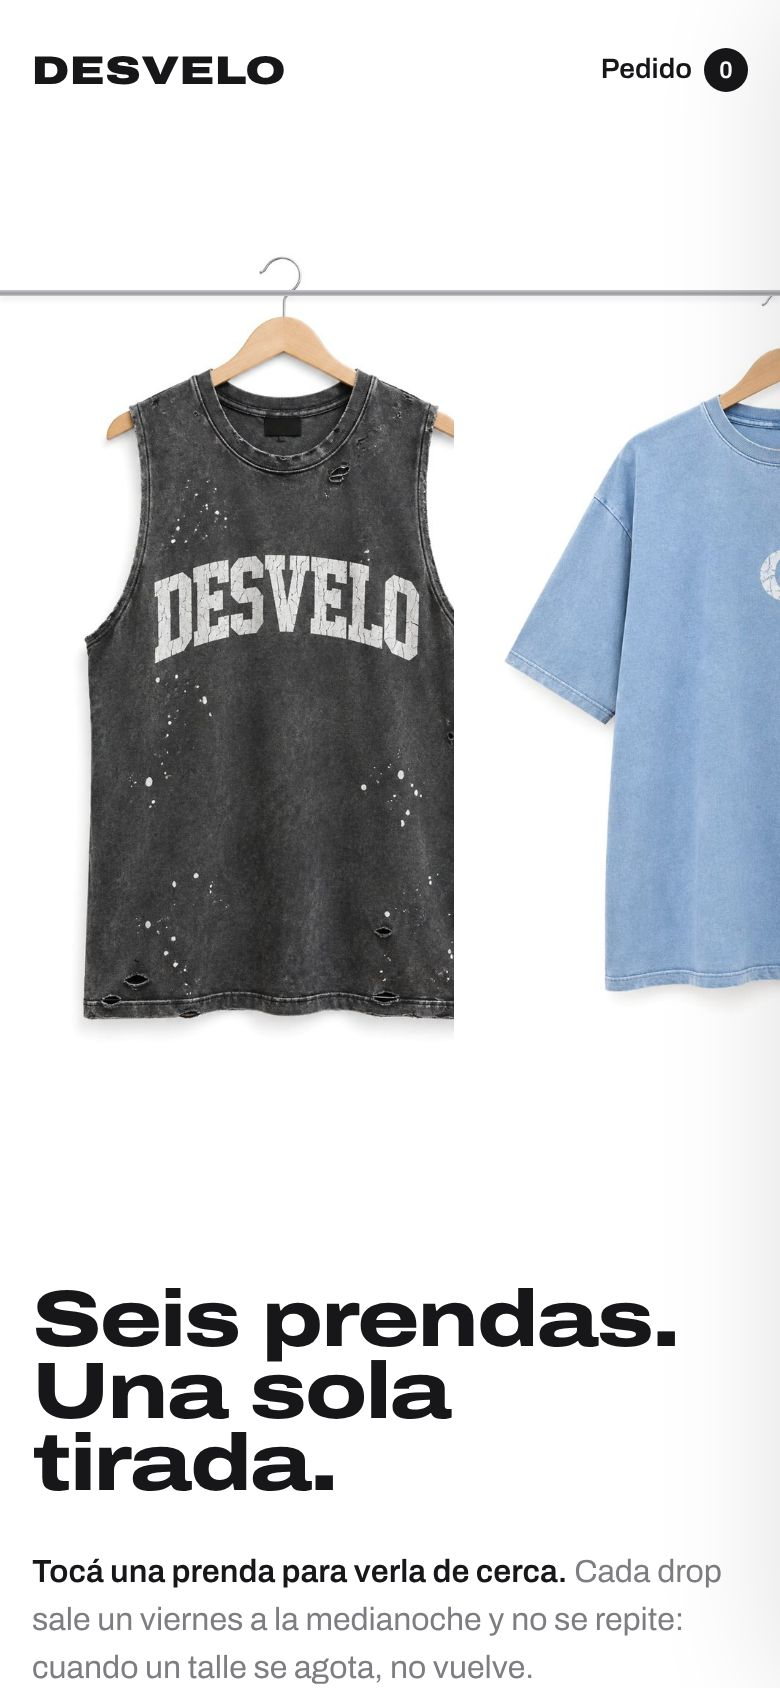
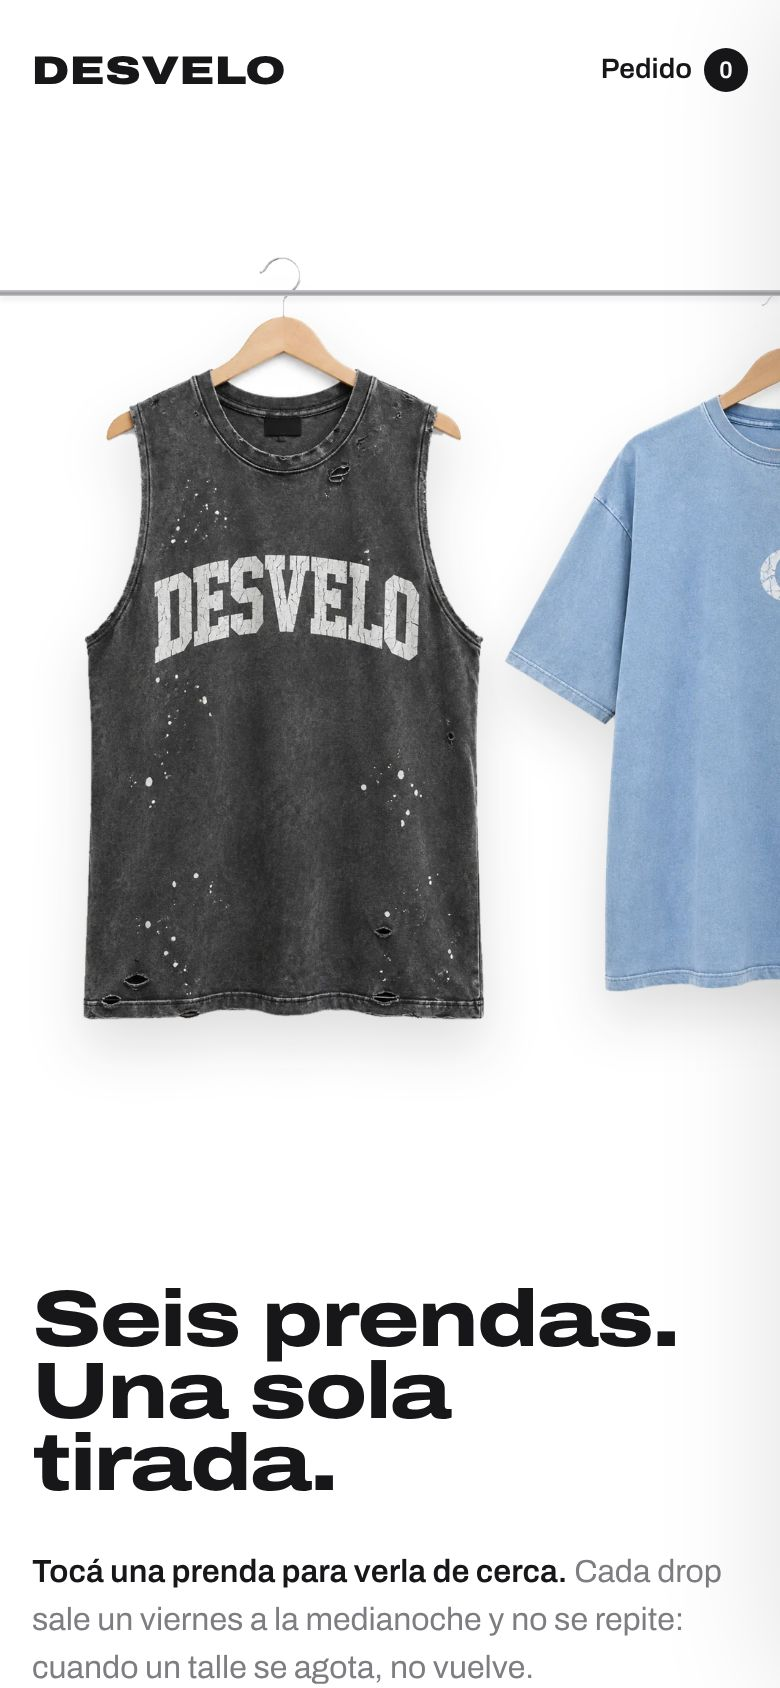
Desvelo: prendas recortadas sin fondo (WebP con transparencia) y sombra suave
Claude-Session: https://claude.ai/code/session_01KneUmhKphiFygSSmiPurJG

Changed region(s): [[0.5846, 0.3697, 0.6462, 0.6161], [0.5538, 0.2464, 0.5846, 0.2773], [0.1538, 0.2464, 0.1846, 0.2773]]

diff --git a/desvelo/index.html b/desvelo/index.html
@@ -47,7 +47,7 @@ a{color:inherit}
 .riel__prendas::-webkit-scrollbar{display:none}
 .prenda{position:relative;flex:none;height:var(--alto);aspect-ratio:3/4;margin:0 calc(var(--alto) * -.09);transform-origin:50% 7.4%;z-index:3}
 .prenda:hover,.prenda:focus-visible{z-index:5!important}
-.prenda img{width:100%;height:100%;object-fit:contain;mix-blend-mode:multiply;pointer-events:none}
+.prenda img{width:100%;height:100%;object-fit:contain;pointer-events:none;filter:drop-shadow(0 14px 14px rgba(23,23,26,.14))}
 .prenda__gancho{position:absolute;left:50%;top:0;width:34%;translate:-50% 0;height:auto;z-index:1}
 .prenda__nombre{position:absolute;left:50%;bottom:-30px;translate:-50% 0;white-space:nowrap;font-size:13px;color:var(--gris);opacity:0;transition:opacity .25s}
 .prenda:hover .prenda__nombre,.prenda:focus-visible .prenda__nombre{opacity:1}
@@ -63,7 +63,7 @@ a{color:inherit}
 .detalle{position:fixed;inset:0;z-index:30;display:none;grid-template-columns:minmax(0,1fr) minmax(0,1.1fr) minmax(0,1fr);align-items:center;gap:24px;padding:72px var(--margen) 32px}
 .detalle.abierto{display:grid}
 .detalle__foto{position:relative;height:min(74vh,720px);aspect-ratio:3/4;justify-self:center}
-.detalle__foto img{position:absolute;inset:0;width:100%;height:100%;object-fit:contain;mix-blend-mode:multiply}
+.detalle__foto img{position:absolute;inset:0;width:100%;height:100%;object-fit:contain;filter:drop-shadow(0 24px 24px rgba(23,23,26,.16))}
 .etiquetas{position:absolute;right:-14%;top:9%;display:flex;gap:8px;transform-origin:50% 0}
 .etiqueta{width:58px;padding:18px 6px 10px;background:var(--tinta);color:var(--blanco);font-size:10px;line-height:1.2;text-align:center;border-radius:3px;position:relative;transform-origin:50% -20px}
 .etiqueta::before{content:"";position:absolute;left:50%;top:6px;width:7px;height:7px;margin-left:-3.5px;border-radius:50%;background:var(--blanco)}
@@ -127,7 +127,7 @@ td:first-child{font-weight:700;font-variation-settings:"wdth" 118}
 .pedido__cabeza h2{font-weight:800;font-size:24px;font-variation-settings:"wdth" 118}
 .pedido ul{list-style:none;flex:1;overflow:auto;display:flex;flex-direction:column;gap:12px}
 .pedido li{display:grid;grid-template-columns:64px 1fr auto;gap:12px;align-items:center;font-size:14px}
-.pedido li img{width:64px;aspect-ratio:3/4;object-fit:contain;mix-blend-mode:multiply;background:#fafafa}
+.pedido li img{width:64px;aspect-ratio:3/4;object-fit:contain;background:#f3f3f4}
 .pedido li small{display:block;color:var(--gris)}
 .pedido li button{font-size:13px;color:var(--gris);text-decoration:underline}
 .pedido__total{display:flex;justify-content:space-between;font-weight:700;font-size:17px;border-top:1px solid var(--linea);padding-top:14px;font-variant-numeric:tabular-nums}
@@ -256,18 +256,18 @@ const WHATSAPP = '5490000000000';
 const PRENDAS = [
   {id:'desvelo', nombre:'Musculosa Desvelo', precio:38000,
    desc:'Algodón pesado de 240 g, lavado a la piedra y pintado a mano. Cada una tiene las manchas en otro lugar.',
-   colores:[{nombre:'Grafito', hex:'#4a4a4c', img:'img/desvelo-gris.jpg'},{nombre:'Hueso', hex:'#ddd3c0', img:'img/desvelo-hueso.jpg'},{nombre:'Negro lavado', hex:'#1d1d1f', img:'img/desvelo-negro.jpg'}],
-   espalda:{Grafito:'img/desvelo-espalda.jpg'}},
+   colores:[{nombre:'Grafito', hex:'#4a4a4c', img:'img/desvelo-gris.webp'},{nombre:'Hueso', hex:'#ddd3c0', img:'img/desvelo-hueso.webp'},{nombre:'Negro lavado', hex:'#1d1d1f', img:'img/desvelo-negro.webp'}],
+   espalda:{Grafito:'img/desvelo-espalda.webp'}},
   {id:'luna', nombre:'Remera Luna', precio:32000, desc:'Corte cuadrado y amplio, celeste lavado. La luna va bordada, no estampada.',
-   colores:[{nombre:'Celeste lavado', hex:'#8fb3d9', img:'img/luna.jpg'}]},
+   colores:[{nombre:'Celeste lavado', hex:'#8fb3d9', img:'img/luna.webp'}]},
   {id:'varsity', nombre:'Campera Varsity', precio:96000, desc:'Cuerpo de paño de lana, mangas de cuero ecológico cobalto y luna de felpa aplicada.',
-   colores:[{nombre:'Crudo y cobalto', hex:'#2340ff', img:'img/varsity.jpg'}]},
+   colores:[{nombre:'Crudo y cobalto', hex:'#2340ff', img:'img/varsity.webp'}]},
   {id:'camiseta', nombre:'Camiseta 9', precio:41000, desc:'Camiseta de fútbol de los noventa, en naranja quemado con zigzag negro en los hombros.',
-   colores:[{nombre:'Naranja quemado', hex:'#e2621b', img:'img/camiseta.jpg'}]},
+   colores:[{nombre:'Naranja quemado', hex:'#e2621b', img:'img/camiseta.webp'}]},
   {id:'buzo', nombre:'Buzo Oliva', precio:58000, desc:'Frisa pesada lavada al sol, ruedo cortado a mano y bolsillo canguro.',
-   colores:[{nombre:'Oliva', hex:'#6b7350', img:'img/buzo.jpg'}]},
+   colores:[{nombre:'Oliva', hex:'#6b7350', img:'img/buzo.webp'}]},
   {id:'bowling', nombre:'Camisa Bowling', precio:45000, desc:'Rayón liviano, cuello abierto y dos paneles negros al frente.',
-   colores:[{nombre:'Crudo y negro', hex:'#efe9db', img:'img/bowling.jpg'}]},
+   colores:[{nombre:'Crudo y negro', hex:'#efe9db', img:'img/bowling.webp'}]},
 ];
 const TALLES = ['S','M','L','XL'];
 const AGOTADOS = {varsity:['S'], camiseta:['XL']};   // talles agotados del drop
